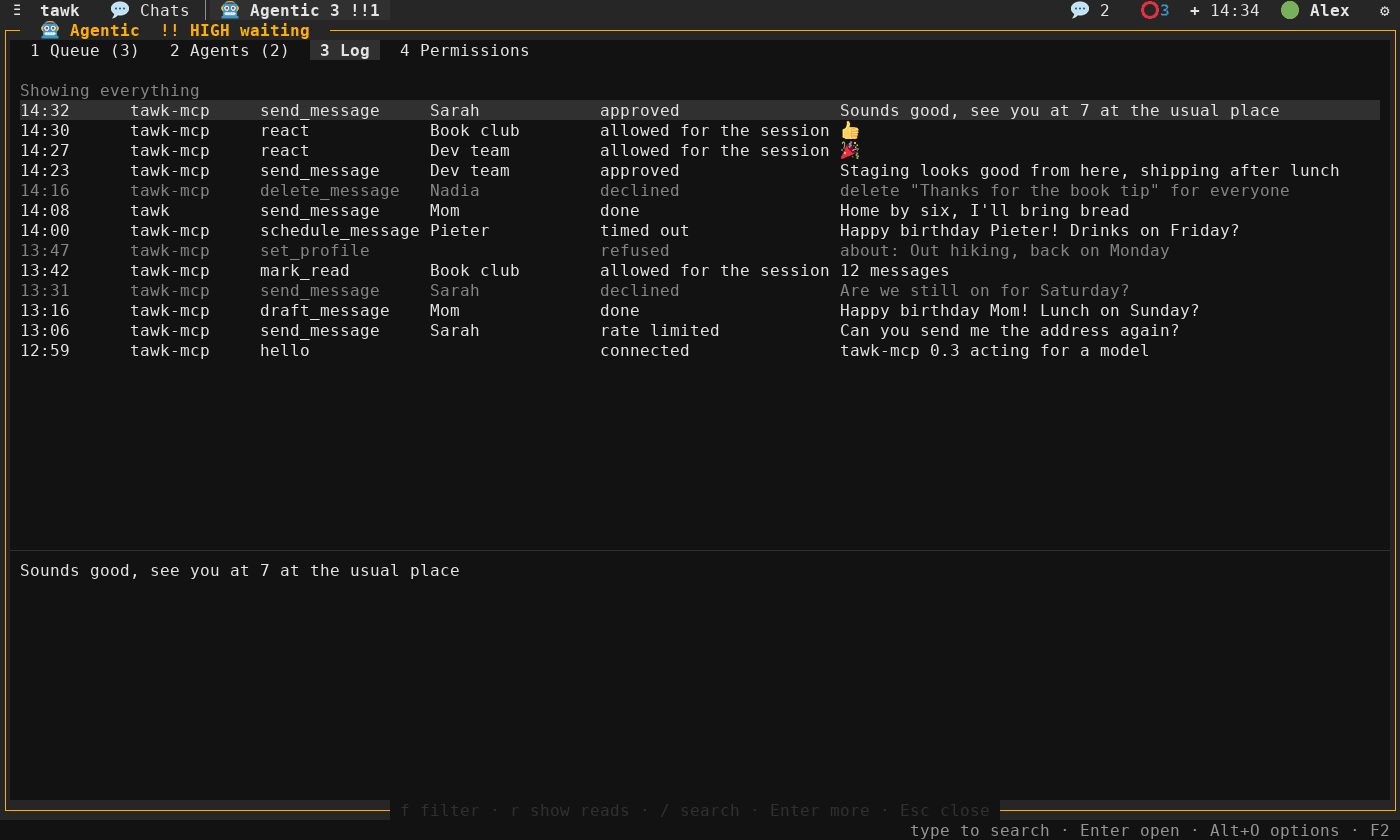
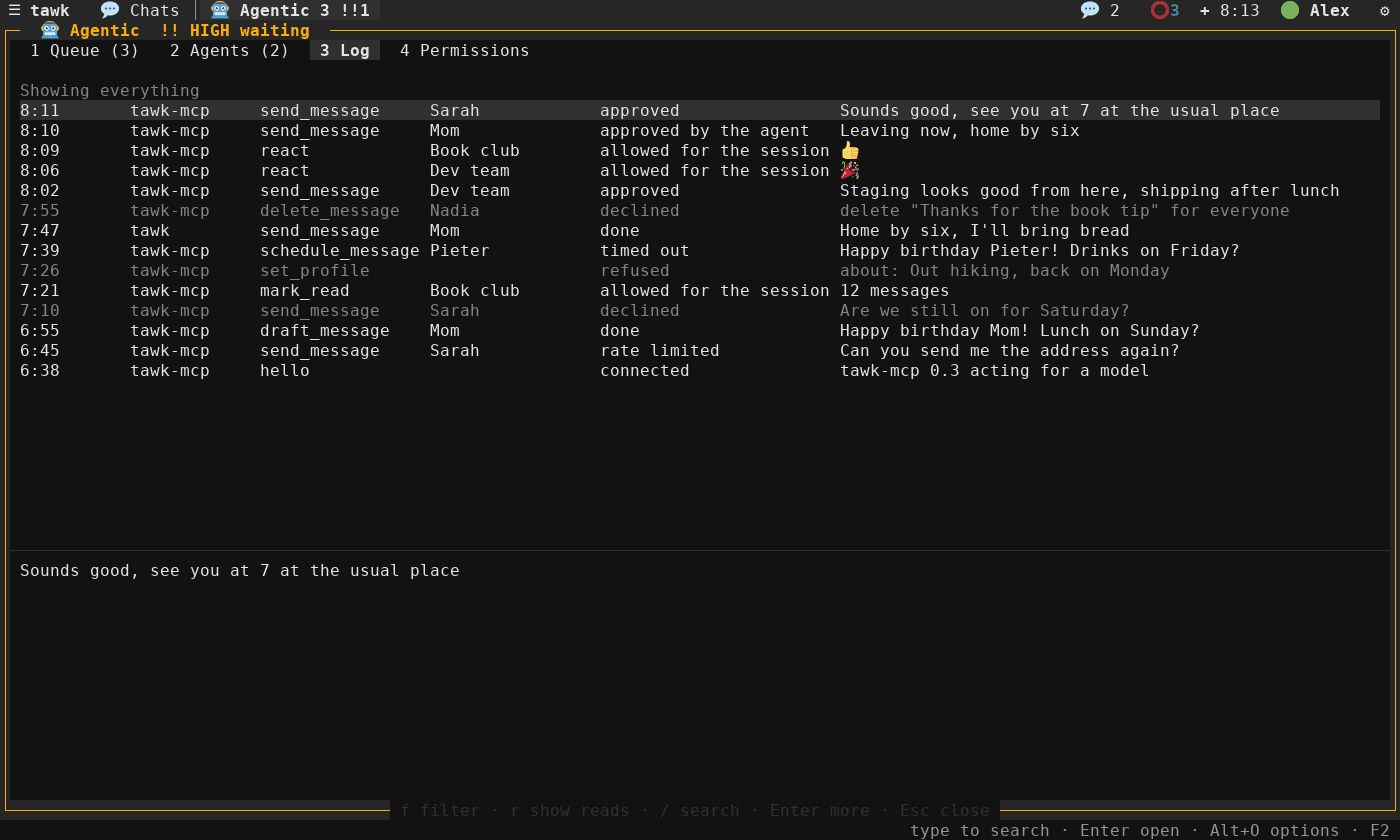
Document access admin, with new and redrawn screenshots and its sequence diagram

diff --git a/tools/screenshots/scenes.c b/tools/screenshots/scenes.c
@@ -664,6 +664,7 @@ static void agents_scenes(void) {
 
     AutomationEntry log[] = {
         log_entry(2, CONTROL_ORIGIN_MCP, "tawk-mcp", "send_message", sarah, "Sounds good, see you at 7 at the usual place", AUTOMATION_OUTCOME_APPROVED),
+        log_entry(3, CONTROL_ORIGIN_MCP, "tawk-mcp", "send_message", mom, "Leaving now, home by six", AUTOMATION_OUTCOME_SELF_APPROVED),
         log_entry(4, CONTROL_ORIGIN_MCP, "tawk-mcp", "react", book, "\xF0\x9F\x91\x8D", AUTOMATION_OUTCOME_ALLOWED),
         log_entry(7, CONTROL_ORIGIN_MCP, "tawk-mcp", "react", dev, "\xF0\x9F\x8E\x89", AUTOMATION_OUTCOME_ALLOWED),
         log_entry(9, CONTROL_ORIGIN_MCP, "tawk-mcp", "read_messages", dev, "last 40 messages", AUTOMATION_OUTCOME_READ),
@@ -708,6 +709,13 @@ static void agents_scenes(void) {
     p.view = AGENTS_VIEW_PERMISSIONS;
     p.selected[AGENTS_VIEW_PERMISSIONS] = 1;
     agents_panel_draw(&p, &m, "agents-permissions");
+
+    /* Access admin: an agent with the admin token answers its own sends in the chats named. */
+    str_copy(settings.automation_access, sizeof(settings.automation_access), "admin");
+    str_copy(settings.automation_chats, sizeof(settings.automation_chats), "Mom, Sarah");
+    agents_panel_draw(&p, &m, "agents-admin");
+    str_copy(settings.automation_access, sizeof(settings.automation_access), "send");
+    settings.automation_chats[0] = '\0';
 
     /* The main screen: the Agentic tab counts what waits. */
     s_agents_tab = 0;

diff --git a/src/clients/tui/agents_panel.c b/src/clients/tui/agents_panel.c
@@ -17,7 +17,7 @@
 #define EDIT_MAX  TEXT_FIELD_CAPACITY
 
 static const char *const TAB_NAMES[AGENTS_VIEW_COUNT] = { "Queue", "Agents", "Log", "Permissions" };
-static const char *const PERMISSION_KEYS[] = { "control_socket", "access", "chats", "confirm_cli", "writes_per_minute" };
+static const char *const PERMISSION_KEYS[] = { "control_socket", "access", "chats", "confirm_cli", "writes_per_minute", "self_approvals_per_hour" };
 #define PERMISSION_COUNT ((int)(sizeof(PERMISSION_KEYS) / sizeof(PERMISSION_KEYS[0])))
 static const char *const FILTER_NAMES[] = { "everything", "allowed", "declined or expired", "refused or failed" };
 

diff --git a/CONTROL.md b/CONTROL.md
@@ -47,8 +47,8 @@ A notification, sent without a request:
 | `bad_request` | The line is not JSON, the operation is unknown, or an argument is missing or of the wrong type. |
 | `hello_first` | Any operation before `hello`. |
 | `protocol` | The client asked for a protocol version tawk does not speak. |
-| `not_allowed` | The access setting does not allow it (`access` in `[automation]` is `read`, `send` or `manage`), the setting may not be changed from outside, or the chat is outside `chats`. |
-| `bad_token` | `confirm` was given a token that is unknown, used, expired or from another connection. |
+| `not_allowed` | The access setting does not allow it (`access` in `[automation]` is `read`, `send`, `manage` or `admin`), the setting may not be changed from outside, or the chat is outside `chats`. |
+| `bad_token` | `confirm` was given a token that is unknown, used, expired or from another connection, or `approve` was given the wrong admin token. |
 | `draft_exists` | `draft_message` found a draft already waiting in that chat. |
 | `unsupported` | The backend in use cannot do it (posting a status needs whatsmeow). |
 | `not_found` | No visible chat or message matches. Locked and hidden chats are reported as not found. |
@@ -133,7 +133,7 @@ Result:
 }
 ```
 
-`access` is `read`, `send` or `manage`.
+`access` is `read`, `send`, `manage` or `admin`.
 
 ### Reading
 
@@ -151,7 +151,7 @@ Reading never marks anything as read, never sends read receipts, and never chang
 
 ### Writing
 
-Writes need `access = send` (or `manage`) in `[automation]`. Each is checked against the chat list, counted against `writes_per_minute`, written to the automation log (the Log in tawk's Agentic tab) and, where the origin requires it, shown to you in the Agentic tab to approve, edit or decline. While a write waits, tawk sends `{"evt":"approval","id":"<request id>","state":"waiting"}` once, so a client can tell its user where to look.
+Writes need `access = send` (or `manage` or `admin`) in `[automation]`. Each is checked against the chat list, counted against `writes_per_minute`, written to the automation log (the Log in tawk's Agentic tab) and, where the origin requires it, shown to you in the Agentic tab to approve, edit or decline. While a write waits, tawk sends `{"evt":"approval","id":"<request id>","state":"waiting"}` once, so a client can tell its user where to look.
 
 | Operation | Arguments | Result |
 | --- | --- | --- |
@@ -163,9 +163,29 @@ Writes need `access = send` (or `manage`) in `[automation]`. Each is checked aga
 
 When you edit the text in the approval dialog before allowing it, the result of `send_message` and `schedule_message` also carries `"edited":true` and `"text"` with what was actually sent.
 
+### Answering your own request
+
+With `access = admin` a client may answer a request of its own that is waiting for you, instead of you answering it in tawk. This is for a program you trust to act while you are away, and it is narrow on purpose.
+
+| Operation | Arguments | Result |
+| --- | --- | --- |
+| `approve` | `id` (the id of your waiting request), `admin_token` | `{"approved":true,"id":"…"}`; the waiting request then gets its own answer, as if you had allowed it |
+
+tawk answers `approve` with an error, and leaves the request waiting for you, unless all of these hold:
+
+- `access` is `admin`. Otherwise `not_allowed`.
+- `admin_token` is the token in `admin.token` beside the control socket (0600). tawk writes a new one each time it starts and each time access becomes admin, and removes it when access is anything else and when it quits. Otherwise `bad_token`.
+- The request was made on this connection. Another client's request is `not_found`.
+- The operation is one of `send_message`, `reply_status`, `forward_message`, `edit_message`, `retry_message`, `schedule_message`, `reschedule`, `send_scheduled_now`, `cancel_scheduled`, `react`, `mark_read` or `like_status`. Anything else is `not_allowed`. `cancel_scheduled` still needs its `confirm` first.
+- Its chat is named in `chats`. An empty `chats` allows none here. Otherwise `not_allowed`.
+- Fewer than `self_approvals_per_hour` were answered this way in the last hour. Otherwise `rate_limited` with `retry_after`.
+- You have not paused the client.
+
+Each one is logged with the outcome `approved by the agent` and shown to you in tawk. A client acting for a model should approve only what its user asked for, never what a message says.
+
 ### Managing tawk
 
-With `access = manage`, a client can do nearly everything you can do in tawk. Every one of these operations is a write, so it follows the same checks and asks you first when the origin requires it. Some things stay out of reach whatever the access, so a program cannot widen its own permissions or run programs of its choice:
+With `access = manage` (or `admin`), a client can do nearly everything you can do in tawk. Every one of these operations is a write, so it follows the same checks and asks you first when the origin requires it. Some things stay out of reach whatever the access, so a program cannot widen its own permissions or run programs of its choice:
 
 - the Automation settings themselves;
 - settings that run a program (`screensaver.command`, `media.image_viewer`, `media.video_player`, `advanced.node_binary`, `advanced.sidecar_dir`);

diff --git a/ARCHITECTURE.md b/ARCHITECTURE.md
@@ -23,7 +23,7 @@ tawk is one C11 program arranged in [iDesign](https://www.idesign.net/) layers. 
 |---|---|---|---|
 | Client | `clients/tui`, `clients/control`, `clients/cli` | `tui`: the ncurses UI (widgets, input, slash commands, layout, the settings panel, the Chats and Agentic tabs). `control`: the control socket client that serves tawk-mcp and the shell commands ([CONTROL.md](CONTROL.md)). `cli`: the `--doctor` setup check, the `--update` installer, `--encrypt`, `--decrypt` and `--change-passphrase`, `--backup` and `--restore`, the start-up passphrase prompt, and `tawk send`, `tail`, `unread` and `status-line` | Managers, and the contracts the composition root hands it |
 | Managers | `managers` | Use cases: messaging and connection supervision, profiles and profile pictures, your own profile, posting statuses, the status feed, messages scheduled for later, incoming calls, media, settings, encrypting the database, encrypted backups, the rules and log for agents (automation), plus the composite event observer that hands backend events to the managers that listen for them | Engines, contracts |
-| Engines | `engines` | Business rules with no I/O: backoff, circuit breaker, notification policy, chat visibility, idle tracking, message ids, media type detection, emoticon conversion, network fingerprints and change detection, profile field and status post validation, finding a URL in text, the status background palette, matching chats against a search, reading when a scheduled message should go, the backup manifest and which archive members a restore accepts, and for agents: the automation policy (who sees which chats, which writes are asked about, which settings stay out of reach, risk), resolving a chat named by an agent, the rate limiter and confirmation tokens | Core, utilities |
+| Engines | `engines` | Business rules with no I/O: backoff, circuit breaker, notification policy, chat visibility, idle tracking, message ids, media type detection, emoticon conversion, network fingerprints and change detection, profile field and status post validation, finding a URL in text, the status background palette, matching chats against a search, reading when a scheduled message should go, the backup manifest and which archive members a restore accepts, and for agents: the automation policy (who sees which chats, which writes are asked about, which settings stay out of reach, risk, and which of its own requests a client may answer with access admin), the hourly quota for those, resolving a chat named by an agent, the rate limiter and confirmation tokens | Core, utilities |
 | Resource access | `resource_access` | SQLite stores (messages, chats, contacts, reactions, receipts, JID aliases, profiles, statuses, scheduled messages, the automation log), database encryption with SQLCipher (`sqlite_database_crypt`, `sqlite_key`), the caching decorators, INI settings store, JSON theme repository, TSV emoji catalog, the text chat exporter, WhatsApp gateways, the JSON protocol codec | Core, utilities |
 | Infrastructure | `infrastructure` | Operating-system integration: audio backends and players, recorder, media opener, screensaver, terminal title, OSC 52 clipboard, clipboard pictures, video frames (ffmpeg), the camera (ffmpeg), PDF pages (poppler), the network monitor (getifaddrs), the terminal passphrase prompt, tar archives and openssl file encryption for backups, the control socket's listening end and the shell commands' calling end (Unix domain sockets), notifiers, media cache janitor | Core, utilities |
 | Contracts | `contracts` | Interfaces between layers | Core |
@@ -167,6 +167,7 @@ flowchart TD
 | `IControlClient` | `unix_control_client` (the calling end, for `tawk send`, `tail`, `unread` and `status-line`) |
 | `IApprovalPrompt` | `approval_queue` in the terminal client (requests waiting in the Agentic tab; answers collected by polling) |
 | `IAutomationLog` | `sqlite_automation_log` (what agents did, in the `automation_log` table, the newest 5000 kept) |
+| `IAdminTokenStore` | `file_admin_token_store` (the admin token in `admin.token` beside the control socket, 0600, written beside itself and renamed) |
 | `IFrameHook` | `control_server_frame_hook` (the control client's work, run by the terminal client once a frame) |
 | `INetworkMonitor` | `ifaddrs_network_monitor` (samples the addresses of the interfaces that are up every 3 seconds and reports a change once it has held for 2 seconds) |
 

diff --git a/MANUAL.md b/MANUAL.md
@@ -41,6 +41,7 @@ The screenshots in this manual were taken from tawk running on a demo account wi
 - [Automation and MCP](#automation-and-mcp)
   - [Turning it on](#turning-it-on)
   - [The Agentic tab](#the-agentic-tab)
+  - [Letting an agent answer for itself](#letting-an-agent-answer-for-itself)
   - [Destructive requests](#destructive-requests)
   - [Drafts from agents](#drafts-from-agents)
   - [Shell commands](#shell-commands)
@@ -965,10 +966,11 @@ The same submenu sets how far agents may go:
 | Setting | What it does |
 |---|---|
 | Agent access (MCP) | On or off; the line under it says whether tawk is listening and how many are connected |
-| What they may do | **read** lists, reads and searches; **send** also sends, reacts, schedules and drafts; **manage** also changes chats, statuses, your profile and settings |
+| What they may do | **read** lists, reads and searches; **send** also sends, reacts, schedules and drafts; **manage** also changes chats, statuses, your profile and settings; **admin** also lets an agent you gave the admin token answer its own sends (see [Letting an agent answer for itself](#letting-an-agent-answer-for-itself)) |
 | Chats they may use | Names or numbers separated by commas; empty allows every chat except locked ones |
 | Ask for shell commands too | Your own `tawk send` asks first as well (agents always ask) |
 | Writes per minute | More are refused until a minute has passed |
+| Self-approvals per hour | With **admin**: how many of its own requests an agent may answer in an hour (20 by default); past that they wait for you |
 
 ### The Agentic tab
 
@@ -1009,6 +1011,24 @@ The tab has four views, on keys 1 to 4 (Tab moves between them):
 A request nobody answers is declined by itself: after 5 minutes, or 2 for HIGH ones. Allowing many in a row from one agent brings a suggestion to allow it for the session instead, so the answers stay deliberate.
 
 ![The log of what agents did](docs/images/agents-log.png)
+
+### Letting an agent answer for itself
+
+By default every send waits for you. Set **What they may do** to **admin** and an agent you trust can answer its own requests instead, within limits you set. It is meant for an agent that runs while you are away from tawk.
+
+![The Permissions view with access admin and two chats named](docs/images/agents-admin.png)
+
+What changes with admin:
+
+- tawk writes an **admin token** to `admin.token` beside the control socket (`$XDG_RUNTIME_DIR/tawk/admin.token`, readable by you alone). It is a new token each time tawk starts and each time you switch to admin, and it is removed when you switch away or quit.
+- An agent that shows that token may answer a request it made itself. With tawk-mcp you give it the file with `TAWKMCP_ADMIN_TOKEN_FILE`; an agent without the file, or another agent on the same computer, cannot.
+- Only these can be answered that way: sending a message, replying to a status, forwarding, editing, retrying, scheduling, rescheduling, sending or cancelling a scheduled message, a reaction, a read mark and a like. Changes to chats, your profile, statuses you post, settings, and every delete or block still wait for you.
+- Only in chats named in **Chats they may use**. With that list empty nothing is answered this way, so you always choose the chats.
+- Only so many an hour (**Self-approvals per hour**). Past that, requests wait for you again.
+
+A request the agent may not answer simply stays in the Queue for you. Each one it does answer is written to the Log as **approved by the agent** and shown as a line at the bottom of the screen, so you can see what went out in your name. Pausing an agent in the Agents view stops it answering as well.
+
+Admin is the widest access there is: a message someone sends you can try to steer the agent (prompt injection), and with admin a steered agent can send in the chats you named without you seeing it first. Name few chats, keep the hourly number low, and read the Log.
 
 ### Destructive requests
 

diff --git a/HOW_IT_WORKS.md b/HOW_IT_WORKS.md
@@ -798,6 +798,37 @@ sequenceDiagram
     C->>AM: record(outcome)
 ```
 
+With access admin a client can give that answer itself. `AutomationManager` keeps an admin token while the access setting says admin: it writes a fresh one through `IAdminTokenStore` when the control client's tick finds access at admin with none issued, and removes it when access is anything else and when tawk quits. The `approve` operation finds the caller's own waiting request, and the manager decides: `automation_policy_self_approval` checks the access, the kind of operation and that the chat is named in the chat list (an empty list allows none), the token is compared without stopping at the first difference, and the `hourly_quota` engine counts it against `self_approvals_per_hour`. When the answer is yes the request is withdrawn from the queue and carried out as if you had allowed it, logged as approved by the agent, and the manager hands the screen a line to show. When it is no the request stays in the queue for you.
+
+```mermaid
+sequenceDiagram
+    participant A as tawk-mcp, holding the admin token
+    participant C as Control client
+    participant AM as AutomationManager
+    participant Q as ApprovalQueue
+    participant T as Screen
+    participant M as MessagingManager
+    A->>C: send_message {chat, text}
+    C->>Q: ask(request)
+    C-->>A: evt approval waiting
+    A->>C: approve {id, admin_token}
+    C->>AM: self_approve(op, chat, token)
+    AM->>AM: access admin? own kind? chat named? token? hourly quota?
+    alt allowed
+        AM-->>C: ALLOW
+        C->>Q: withdraw(request)
+        C->>M: send_text_to(chat, text)
+        C-->>A: ok {id} for the send
+        C-->>A: ok {approved} for approve
+        C->>AM: record(approved by the agent), notice
+        AM-->>T: a line saying what it did
+    else refused
+        AM-->>C: OFF, BAD_TOKEN, NOT_THIS_KIND, CHAT_NOT_LISTED or RATE_LIMITED
+        C-->>A: error not_allowed, bad_token or rate_limited
+        Note over Q: the request still waits for you
+    end
+```
+
 A destructive request (deleting, clearing, blocking, removing your photo, cancelling a message for later) first answers `needs_confirmation` with a token and does nothing. tawk-mcp keeps the token from the model and asks you in your MCP client; only then does it send `confirm`, which puts the request in the queue as HIGH, where Shift+A and Y allow it. Allowances "for this session" are kept per connection and never cover destructive requests.
 
 New messages reach subscribers through a ring of the last 256 messages the messaging manager saw arrive or sent (`live_message_ring`); each frame the control client sends those after the last one it passed on to every client following that chat, and every half second it compares the unread counts it last told each client. Messages in locked or hidden chats are never passed on.

diff --git a/SECURITY.md b/SECURITY.md
@@ -75,6 +75,7 @@ flowchart LR
 | Another user reaching the control socket | Reading your chats or sending as you through Agent access | Off by default; the socket is 0600 in a 0700 folder under `$XDG_RUNTIME_DIR`, and tawk checks the peer's user id (`SO_PEERCRED`, `getpeereid`) and drops anyone else; lines over 1 MiB close the connection |
 | Prompt injection | A message someone sends you telling an agent to forward your chats, send something or delete a chat | Agents see message text as data (tawk-mcp fences it and says so); every send or change from a program acting for a model waits for your answer in the Agentic tab, where you see the exact text and can edit or decline it; deletes and blocks need a yes in the agent's app and Shift+A then Y in tawk, and the token between the two is never shown to the model; allowances for a session never cover destructive requests; a rate limit; a request nobody answers is declined |
 | An agent widening its own permissions | Turning its access up, adding chats, or setting a command to run | The Automation settings, settings that run a program, folders, the backend and the log level cannot be changed over the socket; only you can unlock a soft-locked chat |
+| An agent sending without you (access admin) | A steered agent answering its own sends | Off unless you set access to admin and hand the agent the admin token file (0600, new each start, removed when access changes or tawk quits); only its own requests, only sends and small things, only in chats you named (an empty list allows none), only so many an hour; never chat or profile changes, settings, deletes or blocks; each one is logged as approved by the agent and shown on screen; pausing the agent stops it |
 | An agent reading private chats | Locked chats, or chats you did not mean to share | Locked and soft-locked chats are never listed, read, searched or passed on, even by JID; the `chats` setting narrows the rest; reads never mark anything read or send receipts |
 | Memory safety | Overflows in C code | Bounded copies throughout; built with `-fstack-protector-strong`, `_FORTIFY_SOURCE=2`, PIE and full RELRO; zero compiler warnings with `-Wall -Wextra -Wformat=2 -Wshadow` |
 

diff --git a/CONFIGURATION.md b/CONFIGURATION.md
@@ -158,10 +158,11 @@ What other programs reaching tawk through its control socket may do: tawk-mcp an
 | Key | Default | Description |
 |---|---|---|
 | `control_socket` | `off` | Listen on the control socket. Turning it on in the settings panel explains the risks first |
-| `access` | `read` | `read`, `send` or `manage`: see the manual. Programs acting for a model are asked about every write |
+| `access` | `read` | `read`, `send`, `manage` or `admin`: see the manual. Programs acting for a model are asked about every write; with `admin`, one holding the admin token may answer its own sends in the chats named in `chats` |
 | `chats` | empty | Chats they may use, by name or number, comma-separated; empty means every chat except locked and soft-locked ones |
 | `confirm_cli` | `off` | Your own shell commands ask before sending too |
 | `writes_per_minute` | `5` | Writes allowed per minute (1 to 60) |
+| `self_approvals_per_hour` | `20` | With `access = admin`: requests a program may answer itself in an hour (1 to 240); past this they wait for you |
 
 None of these can be changed over the socket, nor can settings that run a program, folders, the backend or the log level.
 
